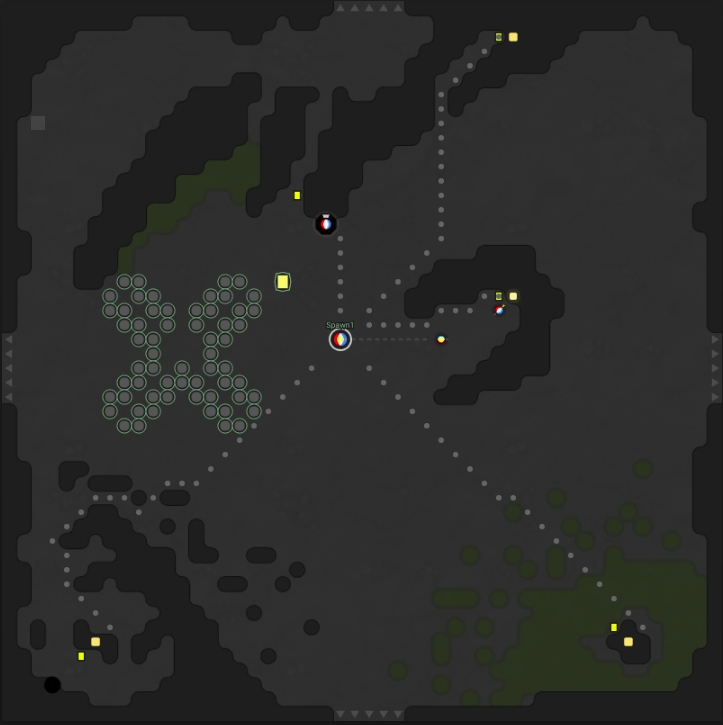
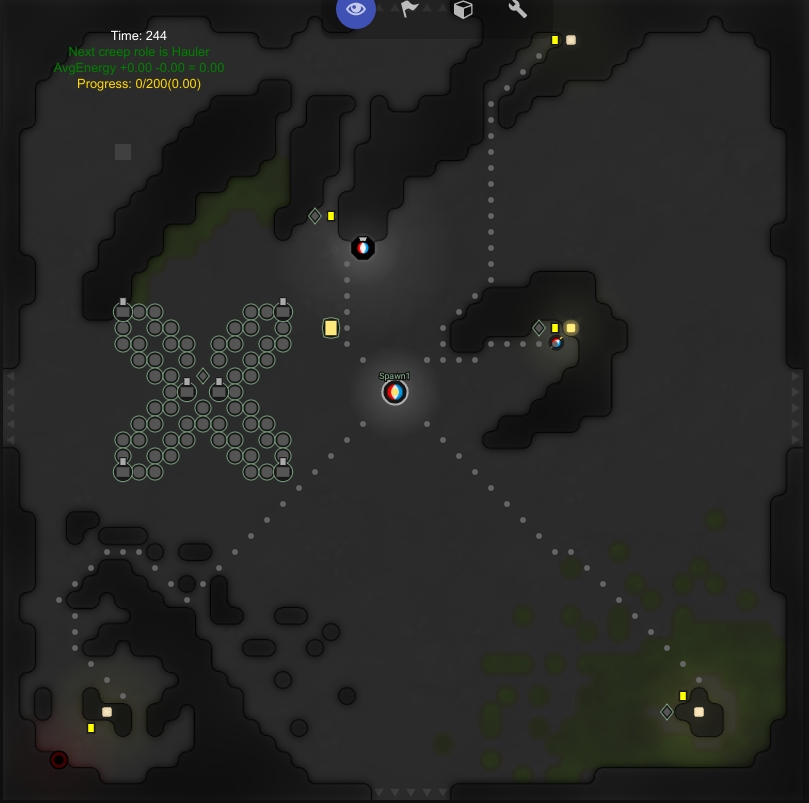
add link to auto construction system; update dissi flower screenshot; add action.putToLink; make havester prefer link-mining

diff --git a/src/service/construction.js b/src/service/construction.js
@@ -16,7 +16,7 @@ mod.saveStructure = function(room, pos, type) {
 };
 
 //** Dissi Flower **
-// 60 extensions, 4 towers and 1 link
+// 60 extensions, 6 towers and 1 link
 const dissiFlower = {
     vector: [
         [2,1,1,0,0,0,0,0,1,1,2],
@@ -24,7 +24,7 @@ const dissiFlower = {
         [1,1,0,1,1,0,1,1,0,1,1],
         [0,1,1,0,1,0,1,0,1,1,0],
         [0,0,1,1,0,3,0,1,1,0,0],
-        [0,0,0,1,0,0,0,1,0,0,0],
+        [0,0,0,1,2,0,2,1,0,0,0],
         [0,0,1,1,0,1,0,1,1,0,0],
         [0,1,1,0,1,1,1,0,1,1,0],
         [1,1,0,1,1,0,1,1,0,1,1],
@@ -57,6 +57,7 @@ function wrap2DArray(array) {
 //Calculate a layout for the room and save to memory
 //FIXME Structures may overlapped
 mod.init = function(room) {
+    delete room.layout; //re init
     const terrain = room.getTerrain();
     //== Container ==
     //Firstly, we need a container for upgrader so it won't move
@@ -90,23 +91,30 @@ mod.init = function(room) {
                 }
             }
         }
+    } else {
+        console.log('Failed to find start pos for dissi flower!');
+        //TODO some fallback layout for extensions
     }
     //== Storage ==
     this.saveStructure(room, posNearby(terrain, room.spawns[0], 4), STRUCTURE_STORAGE);
     //== Road ==
     this.initRoad(room, room.sources);
     //== Link ==
-    //Don't place spawn link, it already be placed in dissiFlower
-    /*
-    if(!room.spawnLink) {
+    if(blockStartPos) {
+        //We have dissi flower
+        // so we don't need to place spawnLink
+    } else {
+        //A output link to match output link
         this.saveStructure(room, posNearby(terrain, room.spawns[0], 3), STRUCTURE_LINK);
     }
-    */
+    //Source links first, it is input link
+    this.saveStructure(room, posNearby(terrain, room.sources[0], 2), STRUCTURE_LINK);
+    this.saveStructure(room, posNearby(terrain, room.sources[1], 2), STRUCTURE_LINK);
+    //Controller link is also a output link
+    this.saveStructure(room, posNearby(terrain, room.controller, 3), STRUCTURE_LINK);
+    //TODO 2 links for remote mining or mineral mining
     //====== Wait to be implement ======
     //=== Defense ===
-    //== Tower ==
-    //4 towers at dissi flower
-    //TODO 2 towers reserved for manual operation
     //== Wall & Rampart ==
     //=== Technology ===
     //== Lab ==
@@ -196,6 +204,17 @@ mod.loop = function(room, forceRun=false) {
     //== Storage ==
     if(!room.storage) {
         success = iterateAndPlace(STRUCTURE_STORAGE);
+    }
+    if(success) return;
+    //== Link ==
+    const linkLimit = CONTROLLER_STRUCTURES[STRUCTURE_LINK][room.controller.level];
+    var links = room.find(FIND_MY_STRUCTURES, {
+        filter: (structure) => {
+            return structure.structureType == STRUCTURE_LINK;
+        }
+    });
+    if(links.length<linkLimit) {
+        success = iterateAndPlace(STRUCTURE_LINK);
     }
     if(success) return;
     //== Road ==

diff --git a/src/action/withdraw.js b/src/action/withdraw.js
@@ -3,34 +3,11 @@ module.exports = mod;
 
 function findTargetForFiller(creep) {
     const spawnLink = creep.room.spawnLink;
-    const sourceLink = creep.room.sourceLink;
-    if(spawnLink) {
-        //Only target spawnLink when it has enough energy or else abandon this target, try next action
-        if(sourceLink && sourceLink.energy==sourceLink.energyCapacity) {
-            //SourceLink is ready to transfer energy, so filler should move all the remain energy
-            //  in SpawnLink as soon as it can.
-            creep.memory.skipBefore = 0;
-            return spawnLink;
-        } else {
-            if(spawnLink.energy > (creep.carryCapacity-creep.carry.energy)) {
-                creep.memory.skipBefore = 0;
-                return spawnLink;
-            } else {
-                if(_.isUndefined(creep.memory.skipBefore)) creep.memory.skipBefore=0;
-                //If SourceLink is not ready and SpawnLink don't have enough energy, try next action once
-                //Memorize it skip spawnLink
-                const skipBefore = creep.memory.skipBefore;
-                if(skipBefore && spawnLink.energy>0) {
-                    //We have skip spawnLink at least one times, so we will target it as long
-                    //  as it has any energy
-                    creep.memory.skipBefore = 0;
-                    return spawnLink;
-                } else {
-                    creep.memory.skipBefore++;
-                    return false;
-                }
-            }
-        }
+    if(spawnLink && spawnLink.energy > 0) {
+        //SourceLink only transfer energy when no energy remain in spawnLink
+        //  so filler should move all the remain energy in SpawnLink ASAP.
+        //Otherwise it will block link between source-link and spawn-link
+        return spawnLink;
     } else {
         return creep.room.storage;
     }
@@ -62,6 +39,12 @@ const targetInitFunc = function(creep) {
             return findSourceContainers(creep);
         }
     } else if(role === 'Upgrader') {
+        //Prefer controllerLink
+        const link = creep.room.controllerLink;
+        if(link && link.energy > 0) {
+            return link;
+        }
+
         const container = creep.room.controller.container;
         if(container) {
             return container;

diff --git a/src/extension.js b/src/extension.js
@@ -222,25 +222,21 @@ Object.defineProperties(Room.prototype, {
         enumerable: false,
         configurable: true
     },
-    'sourceLink': {
+    'sourceLinks': {
         get: function() {
-            if (!this._sourceLink) {
-                if (this.memory.sourceLinkId) {
-                    const obj = Game.getObjectById(this.memory.sourceLinkId);
-                    if(!obj) {
-                        this.memory.sourceLinkId = false;
-                        return false;
-                    }
-                    this._sourceLink = obj;
+            if (!this._sourceLinks) {
+                const sourceLinkIds = this.memory.sourceLinkIds;
+                if (sourceLinkIds && sourceLinkIds.length > 0) {
+                    this._sourceLinks = _.map(sourceLinkIds, id => Game.getObjectById(id));
                 } else {
-                    return false;
+                    this._sourceLinks = [];
                 }
             }
-            return this._sourceLink;
+            return this._sourceLinks;
         },
-        set: function(sourceLink) {
-            this.memory.sourceLinkId = sourceLink.id;
-            this._sourceLink = sourceLink;
+        set: function(sourceLinks) {
+            this.memory.sourceLinkIds = _.map(sourceLinks, link => link.id);
+            this._sourceLinks = sourceLinks;
         },
         enumerable: false,
         configurable: true
@@ -328,13 +324,18 @@ Room.prototype.saveLinks = function() {
     const spawnsAndExtensions = this.find(FIND_MY_STRUCTURES, {
         filter: o => o.structureType==STRUCTURE_SPAWN || o.structureType==STRUCTURE_EXTENSION
     });
+
+    let sourceLinks = [];
     _.forEach(links, link => {
         if(link.pos.inRangeTo(controller, 3)) {
             self.controllerLink = link;
         } else if(link.pos.findInRange(sources, 2).length) {
-            self.sourceLink = link;
+            sourceLinks.push(link);
         } else if(link.pos.findInRange(spawnsAndExtensions, 3).length) {
             self.spawnLink = link;
         }
     });
+    if(sourceLinks.length > 0) {
+        this.sourceLinks = sourceLinks;
+    }
 };

diff --git a/src/service/link.js b/src/service/link.js
@@ -4,14 +4,18 @@ module.exports = mod;
 
 mod.loop = function(room) {
     const spawnLink = room.spawnLink;
-    const sourceLink = room.sourceLink;
+    const sourceLinks = room.sourceLinks;
     const controllerLink = room.controllerLink;
 
-    if(sourceLink.cooldown==0 && sourceLink.energy==sourceLink.energyCapacity
-        && spawnLink.energy==0) {
-        sourceLink.transferEnergy(spawnLink);
-    } else if(sourceLink.cooldown==0 && sourceLink.energy==sourceLink.energyCapacity
-        && controllerLink.energy==0) {
-        sourceLink.transferEnergy(controllerLink);
+    for(const sourceLink of sourceLinks) {
+        if(sourceLink.cooldown === 0 && sourceLink.energy === sourceLink.energyCapacity) {
+            if(spawnLink.energy==0) {
+                //First we ensure spawnLink have energy remain
+                sourceLink.transferEnergy(spawnLink);
+            } else if(controllerLink.energy==0) {
+                //Then we can transfer energy to controllerLink
+                sourceLink.transferEnergy(controllerLink);
+            }
+        }
     }
-}
+};

diff --git a/src/action/putToLink.js b/src/action/putToLink.js
@@ -1,11 +1,15 @@
-let mod = new ActionObj('Put');
+let mod = new ActionObj('PutToLink');
 module.exports = mod;
 
-//FIXME Warning: if you put more than one container near source,
-//  hauler will be in infinite loop of withdraw/transfer.
 const targetInitFunc = function(creep) {
-    const markSource = Util.SourceMark.getMarkSource(creep);
-    return markSource ? markSource.container : false;
+    const sourceLinks = creep.room.sourceLinks;
+    for(const sourceLink of sourceLinks) {
+        if( creep.pos.getRangeTo(sourceLink)<=2
+            && sourceLink.energy<sourceLink.energyCapacity) {
+            return sourceLink;
+        }
+    }
+    return false;
 };
 
 mod.nextTarget = function() {

diff --git a/src/global.js b/src/global.js
@@ -53,6 +53,7 @@ global.Action = {
     Put: require('action_put'),
     Store: require('action_store'),
     PutForUpgrade: require('action_putForUpgrade'),
+    PutToLink: require('action_putToLink'),
     Fuel: require('action_fuel'),
     Guard: require('action_guard'),
     Pickup: require('action_pickup'),

diff --git a/src/role/harvester.js b/src/role/harvester.js
@@ -3,5 +3,6 @@ module.exports = mod;
 
 mod.roleConfig = {
     inStack: [Action.Harvest],
-    outStack: [Action.Put, Action.Drop], 
+    //aka link-mining, container-mining and drop-mining
+    outStack: [Action.PutToLink, Action.Put, Action.Drop],
 };
